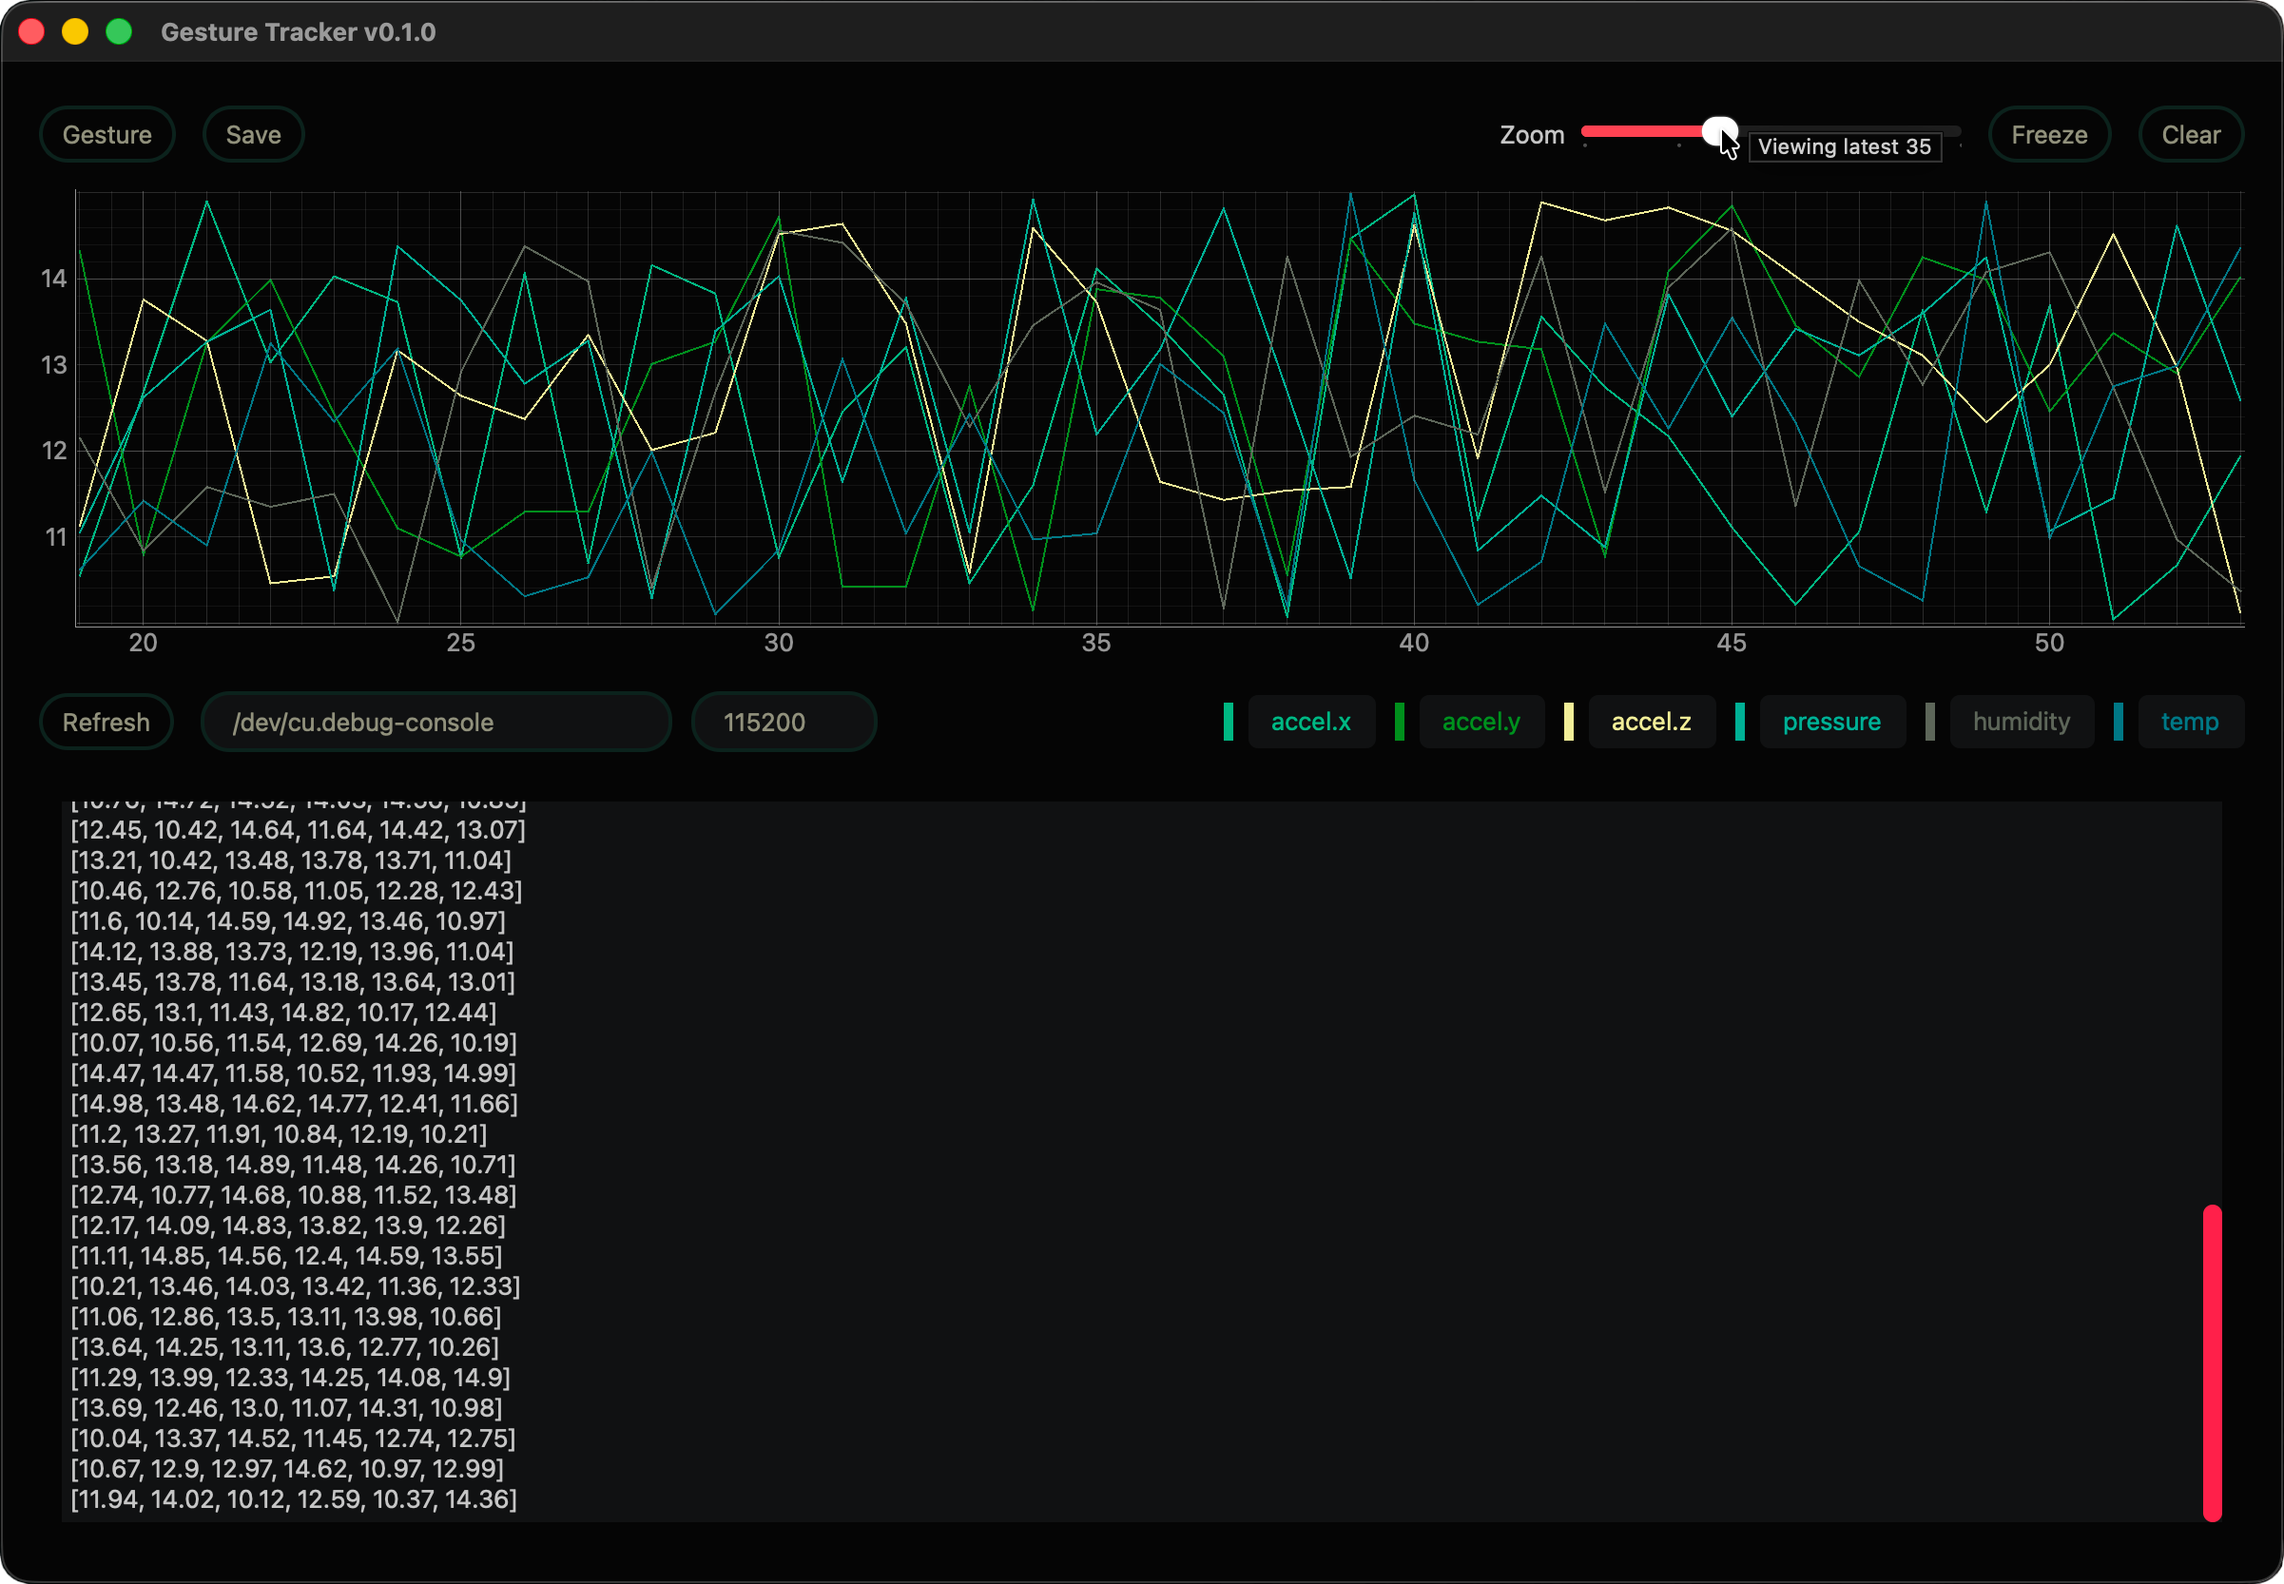
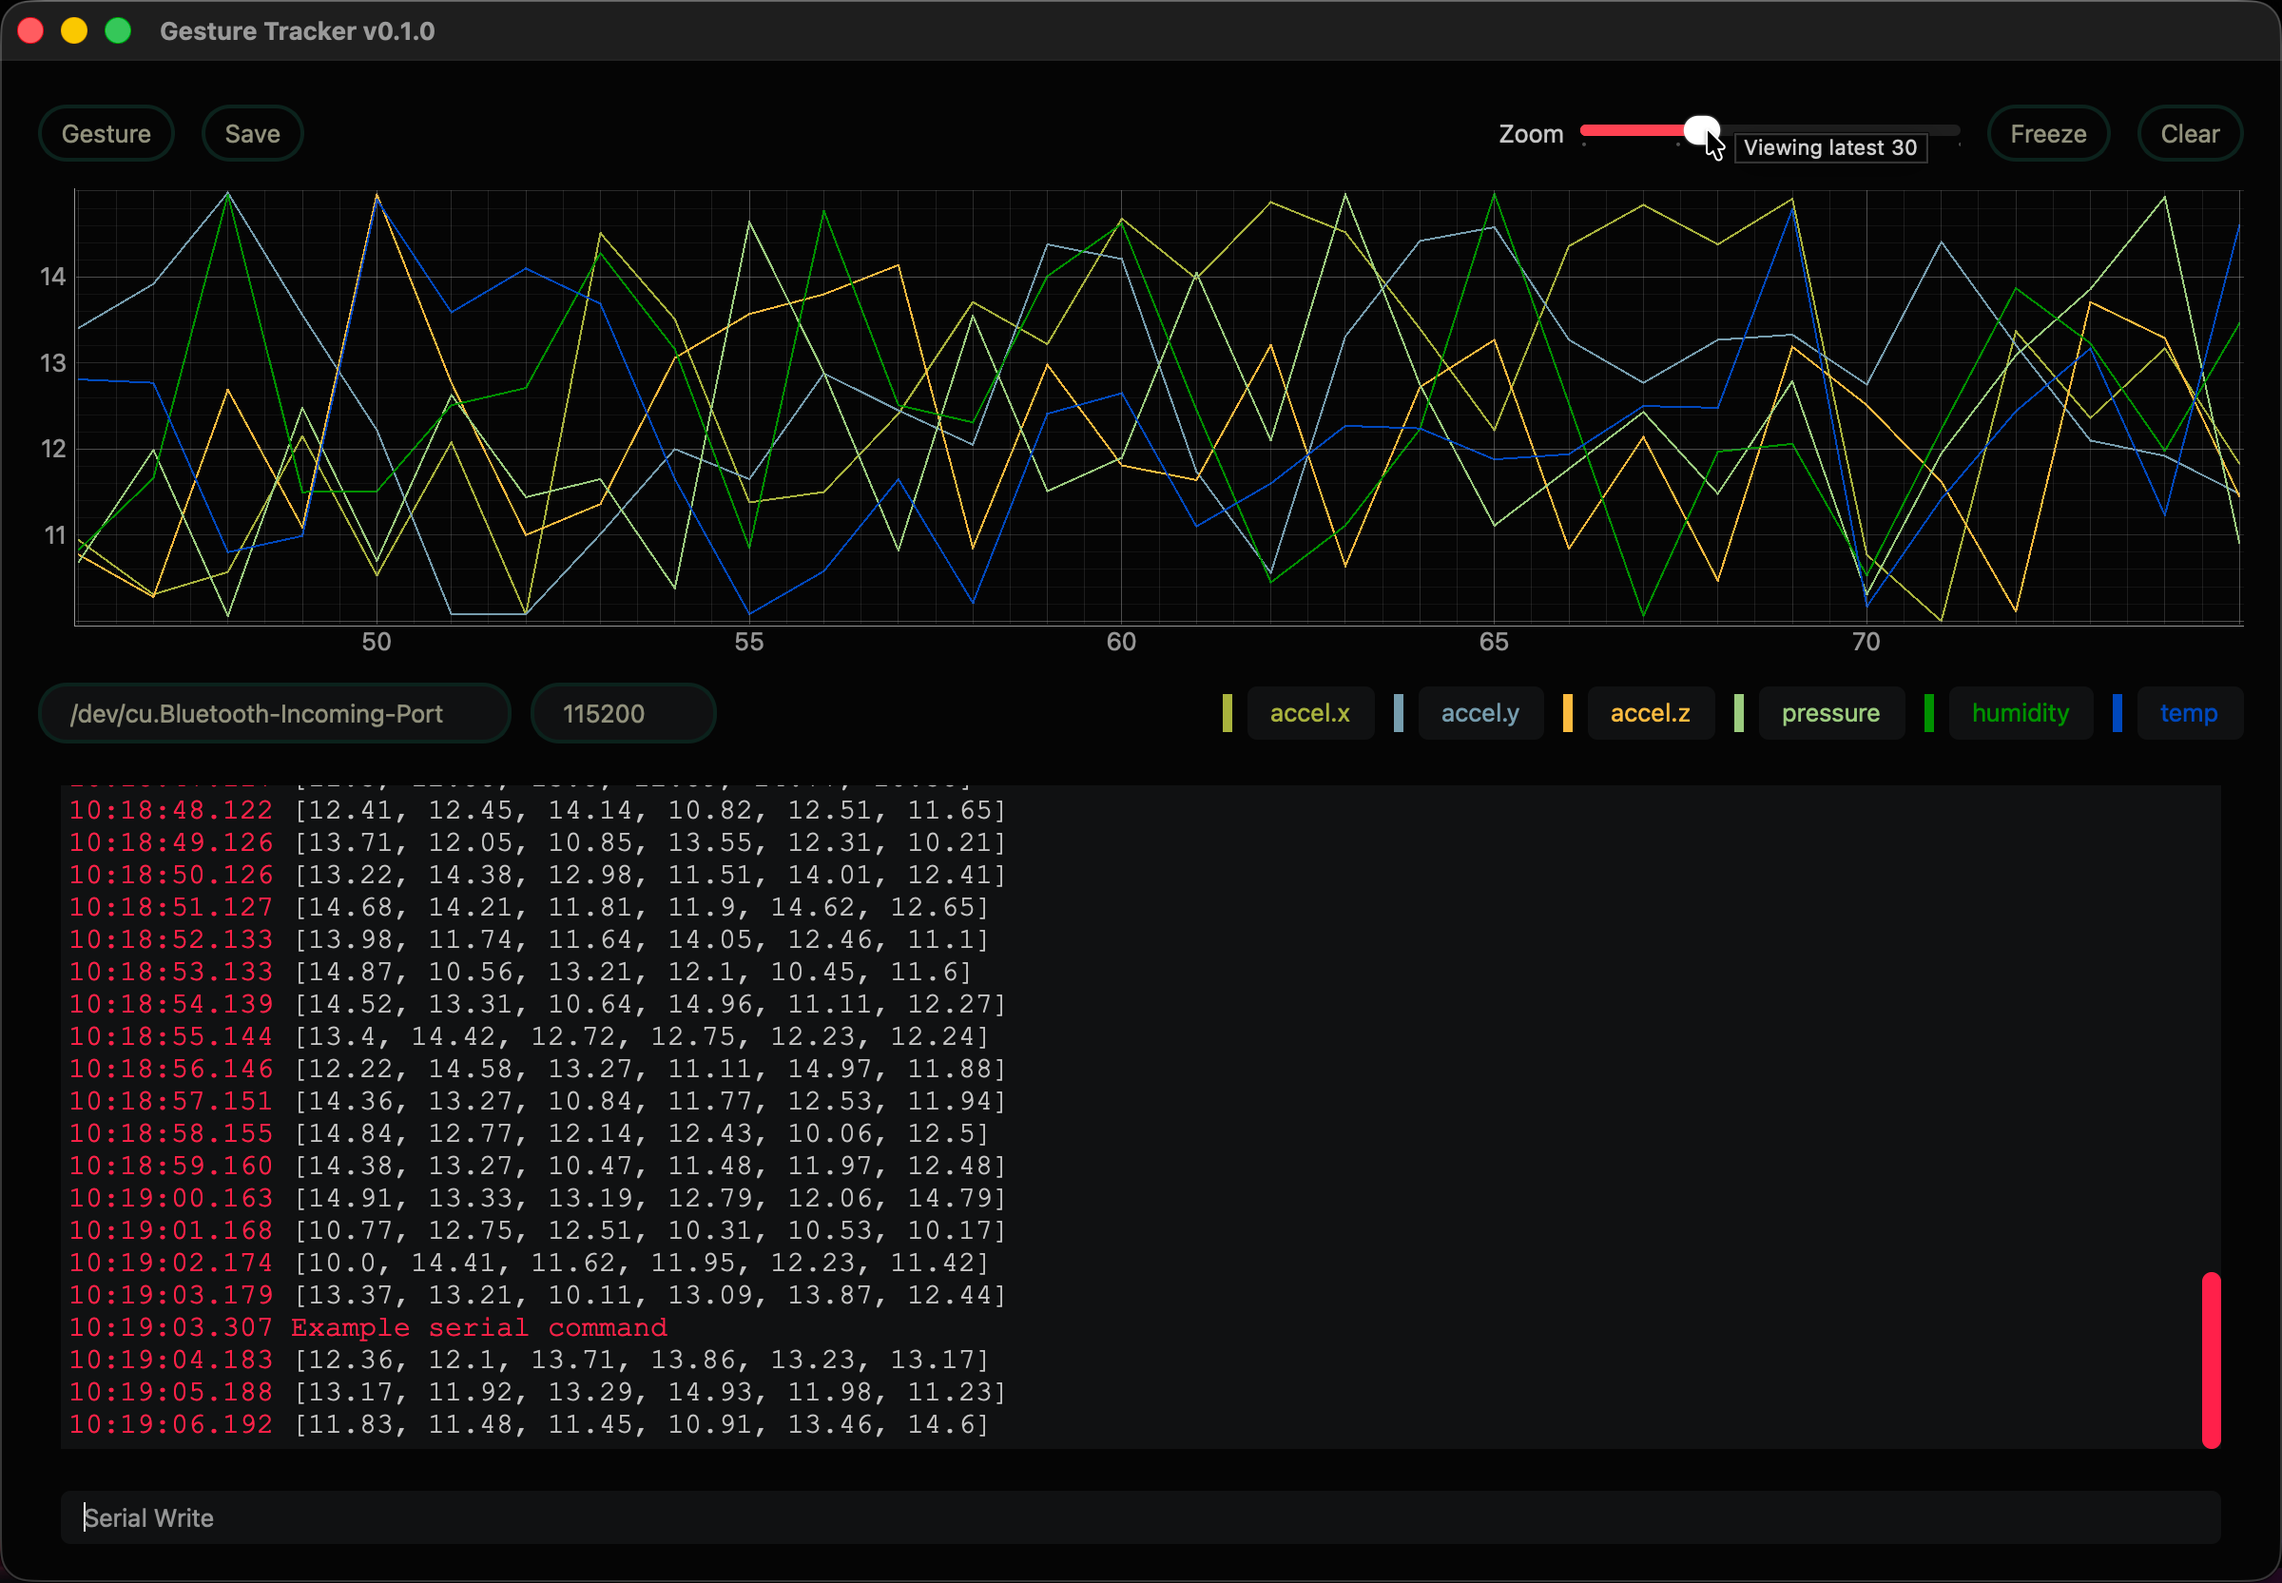
feat: serial writer
+ added serial writer
+ added timestamps to read and write values displayed in the raw value
  box
~ changed font to monospace; more appropriate

diff --git a/src/window/window.py b/src/window/window.py
@@ -4,13 +4,14 @@
 #- Imports -----------------------------------------------------------------------------------------
 
 from typing import Any
+from datetime import datetime
 
 import pyqtgraph as pg
 from PySide6.QtCore import Qt, QSize
-from PySide6.QtGui import QKeyEvent
+from PySide6.QtGui import QKeyEvent, QFont
 from PySide6.QtWidgets import (
     QDialog, QWidget, QFrame,
-    QComboBox, QFileDialog, QLabel, QMessageBox, QTextEdit, QSlider,
+    QComboBox, QFileDialog, QLabel, QMessageBox, QTextEdit, QSlider, QLineEdit,
     QHBoxLayout, QVBoxLayout, QScrollArea,
 )
 from redwrenlib.typing import int2d_t
@@ -24,9 +25,9 @@ from utils.ui import (
 )
 from utils.style import (
     APPLICATION_NAME,
-    BACKGROUND_COLOR, BACKGROUND_HIGHLIGHT_COLOR,
+    BACKGROUND_COLOR, BACKGROUND_HIGHLIGHT_COLOR, ACCENT_COLOR,
     WINDOW_SIZE, GRAPH_HEIGHT, ZOOM_SLIDER_WIDTH,
-    RAW_VALUE_BOX_STYLE, COMBOBOX_STYLE, SCROLL_BAR_STYLE, LABEL_BODY_STYLE,
+    RAW_VALUE_BOX_STYLE, COMBOBOX_STYLE, SCROLL_BAR_STYLE, LABEL_BODY_STYLE, TEXT_BOX_STYLE,
 )
 from utils.typing import (
     SensorValues, RecordAction, Tab,
@@ -80,6 +81,7 @@ class GestureTracker(QWidget):
         self._init_graph_plot()
         self._init_graph_footer()
         self._init_raw_data()
+        self._init_serial_writer()
 
 
     #- Private: Initialise Components --------------------------------------------------------------
@@ -208,13 +210,33 @@ class GestureTracker(QWidget):
         self._data_display.setStyleSheet(RAW_VALUE_BOX_STYLE)
         self._data_display.setReadOnly(True)
 
+        monospaced_font = QFont("Courier New", 15)
+        self._data_display.setFont(monospaced_font)
+
         self._scroll_area_layout.addWidget(self._data_display)
         self._scroll_area.setWidget(self._scroll_area_content)
 
         self._layout.addWidget(self._scroll_area)
 
 
-    #- Private: Sensor Data ------------------------------------------------------------------------
+    # Text box to write serial data
+    def _init_serial_writer(self) -> None:
+        serial_write = QLineEdit()
+        serial_write.setPlaceholderText("Serial Write")
+        serial_write.setToolTip("Enable/Disable different components based on return commands")
+        serial_write.setStyleSheet(TEXT_BOX_STYLE + "margin: 0 12%;")
+        self._layout.addWidget(serial_write)
+
+        def handle_return_pressed():
+            self._append_data(
+                f'<span style="color: {ACCENT_COLOR};">{serial_write.text()}</span>'
+            )
+            serial_write.clear() # clear the QLineEdit
+
+        serial_write.returnPressed.connect(handle_return_pressed)
+
+
+    #- Private Methods -----------------------------------------------------------------------------
 
     # Update the plot from graphlines unless the UI is frozen.
     def _update_plot(self) -> None:
@@ -230,6 +252,42 @@ class GestureTracker(QWidget):
             )
 
             self._plot_widget.addItem(sliced_line)
+
+
+    # Add data to the raw data box with current time
+    def _append_data(self, data: Any) -> None:
+        timestamp = datetime.now().strftime("%H:%M:%S.%f")[:-3]  # slice to get milliseconds
+
+        self._data_display.append(
+            f'<span style="color: {ACCENT_COLOR};">{timestamp}</span>  {data}'
+        )
+
+
+    # Record control callback implementing start/stop/discard/restart semantics.
+    def _record_data(self, action: RecordAction) -> None:
+        # create a new timestamp- add start point
+        if action == RecordAction.START:
+            self._records_stamps.append([len(self._counter)])
+            self._plot_widget.setBackground(BACKGROUND_HIGHLIGHT_COLOR)
+
+        # add end point for last created timestamp
+        elif action == RecordAction.STOP:
+            self._records_stamps[-1].append(len(self._counter))
+            self._plot_widget.setBackground(BACKGROUND_COLOR)
+
+        # delete the last timestamp
+        elif action == RecordAction.DISCARD:
+            self._records_stamps.pop()
+            self._plot_widget.setBackground(BACKGROUND_HIGHLIGHT_COLOR)
+
+        # reset the start point for the current timestamp to current counter value
+        elif action == RecordAction.RESTART:
+            self._records_stamps[-1][0] = len(self._counter)
+
+        # empty the record, clear all timestamps
+        else: # == RecordAction.TERMINATE
+            self._records_stamps = []
+            self._plot_widget.setBackground(BACKGROUND_COLOR)
 
 
     #- Private: Button Actions ---------------------------------------------------------------------
@@ -353,39 +411,12 @@ class GestureTracker(QWidget):
         analyse_method(dialog_inputs.filename, analyse_data, dialog_inputs.parameters)
 
 
-    # Record control callback implementing start/stop/discard/restart semantics.
-    def _record_data(self, action: RecordAction) -> None:
-        # create a new timestamp- add start point
-        if action == RecordAction.START:
-            self._records_stamps.append([len(self._counter)])
-            self._plot_widget.setBackground(BACKGROUND_HIGHLIGHT_COLOR)
-
-        # add end point for last created timestamp
-        elif action == RecordAction.STOP:
-            self._records_stamps[-1].append(len(self._counter))
-            self._plot_widget.setBackground(BACKGROUND_COLOR)
-
-        # delete the last timestamp
-        elif action == RecordAction.DISCARD:
-            self._records_stamps.pop()
-            self._plot_widget.setBackground(BACKGROUND_HIGHLIGHT_COLOR)
-
-        # reset the start point for the current timestamp to current counter value
-        elif action == RecordAction.RESTART:
-            self._records_stamps[-1][0] = len(self._counter)
-
-        # empty the record, clear all timestamps
-        else: # == RecordAction.TERMINATE
-            self._records_stamps = []
-            self._plot_widget.setBackground(BACKGROUND_COLOR)
-
-
     #- Public Calls --------------------------------------------------------------------------------
 
     # Append new sensor values to internal buffers and create graph lines as needed.
     def add_data(self, values: list[Any]) -> None:
         # add data to the raw data area
-        self._data_display.append(str(values))
+        self._append_data(values)
         self._counter.append(self._counter[-1] + 1)
 
         # clear old data and add new lines
